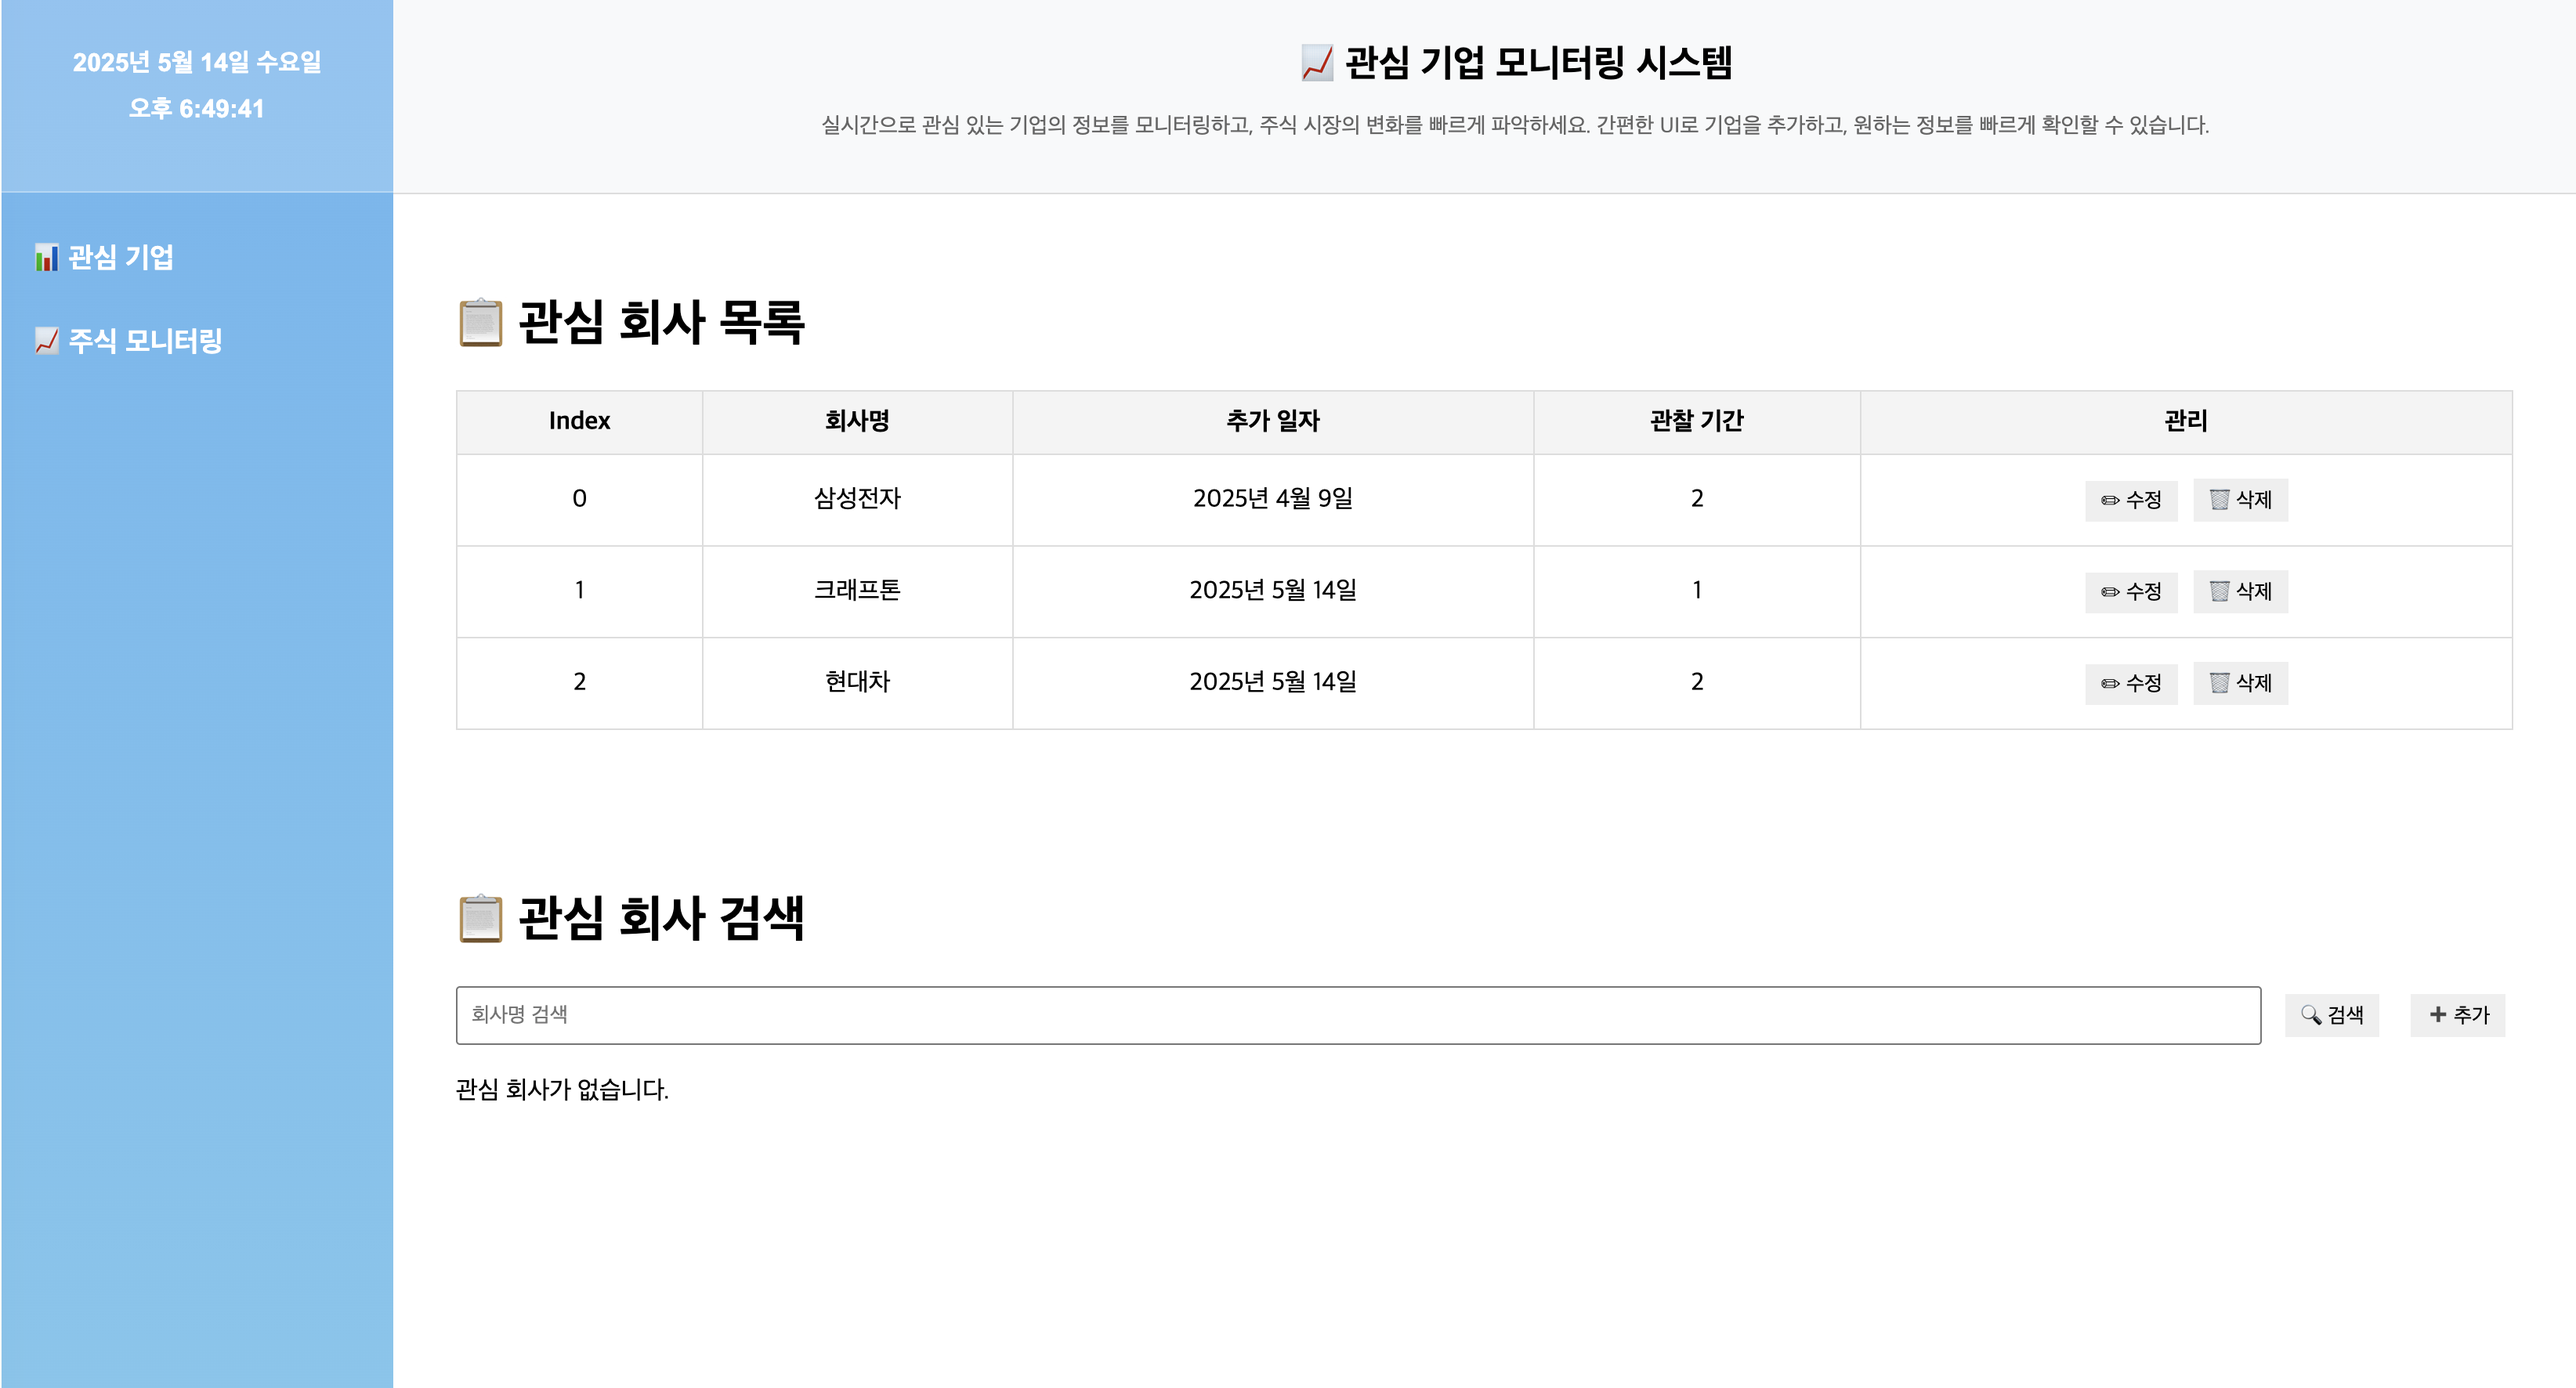
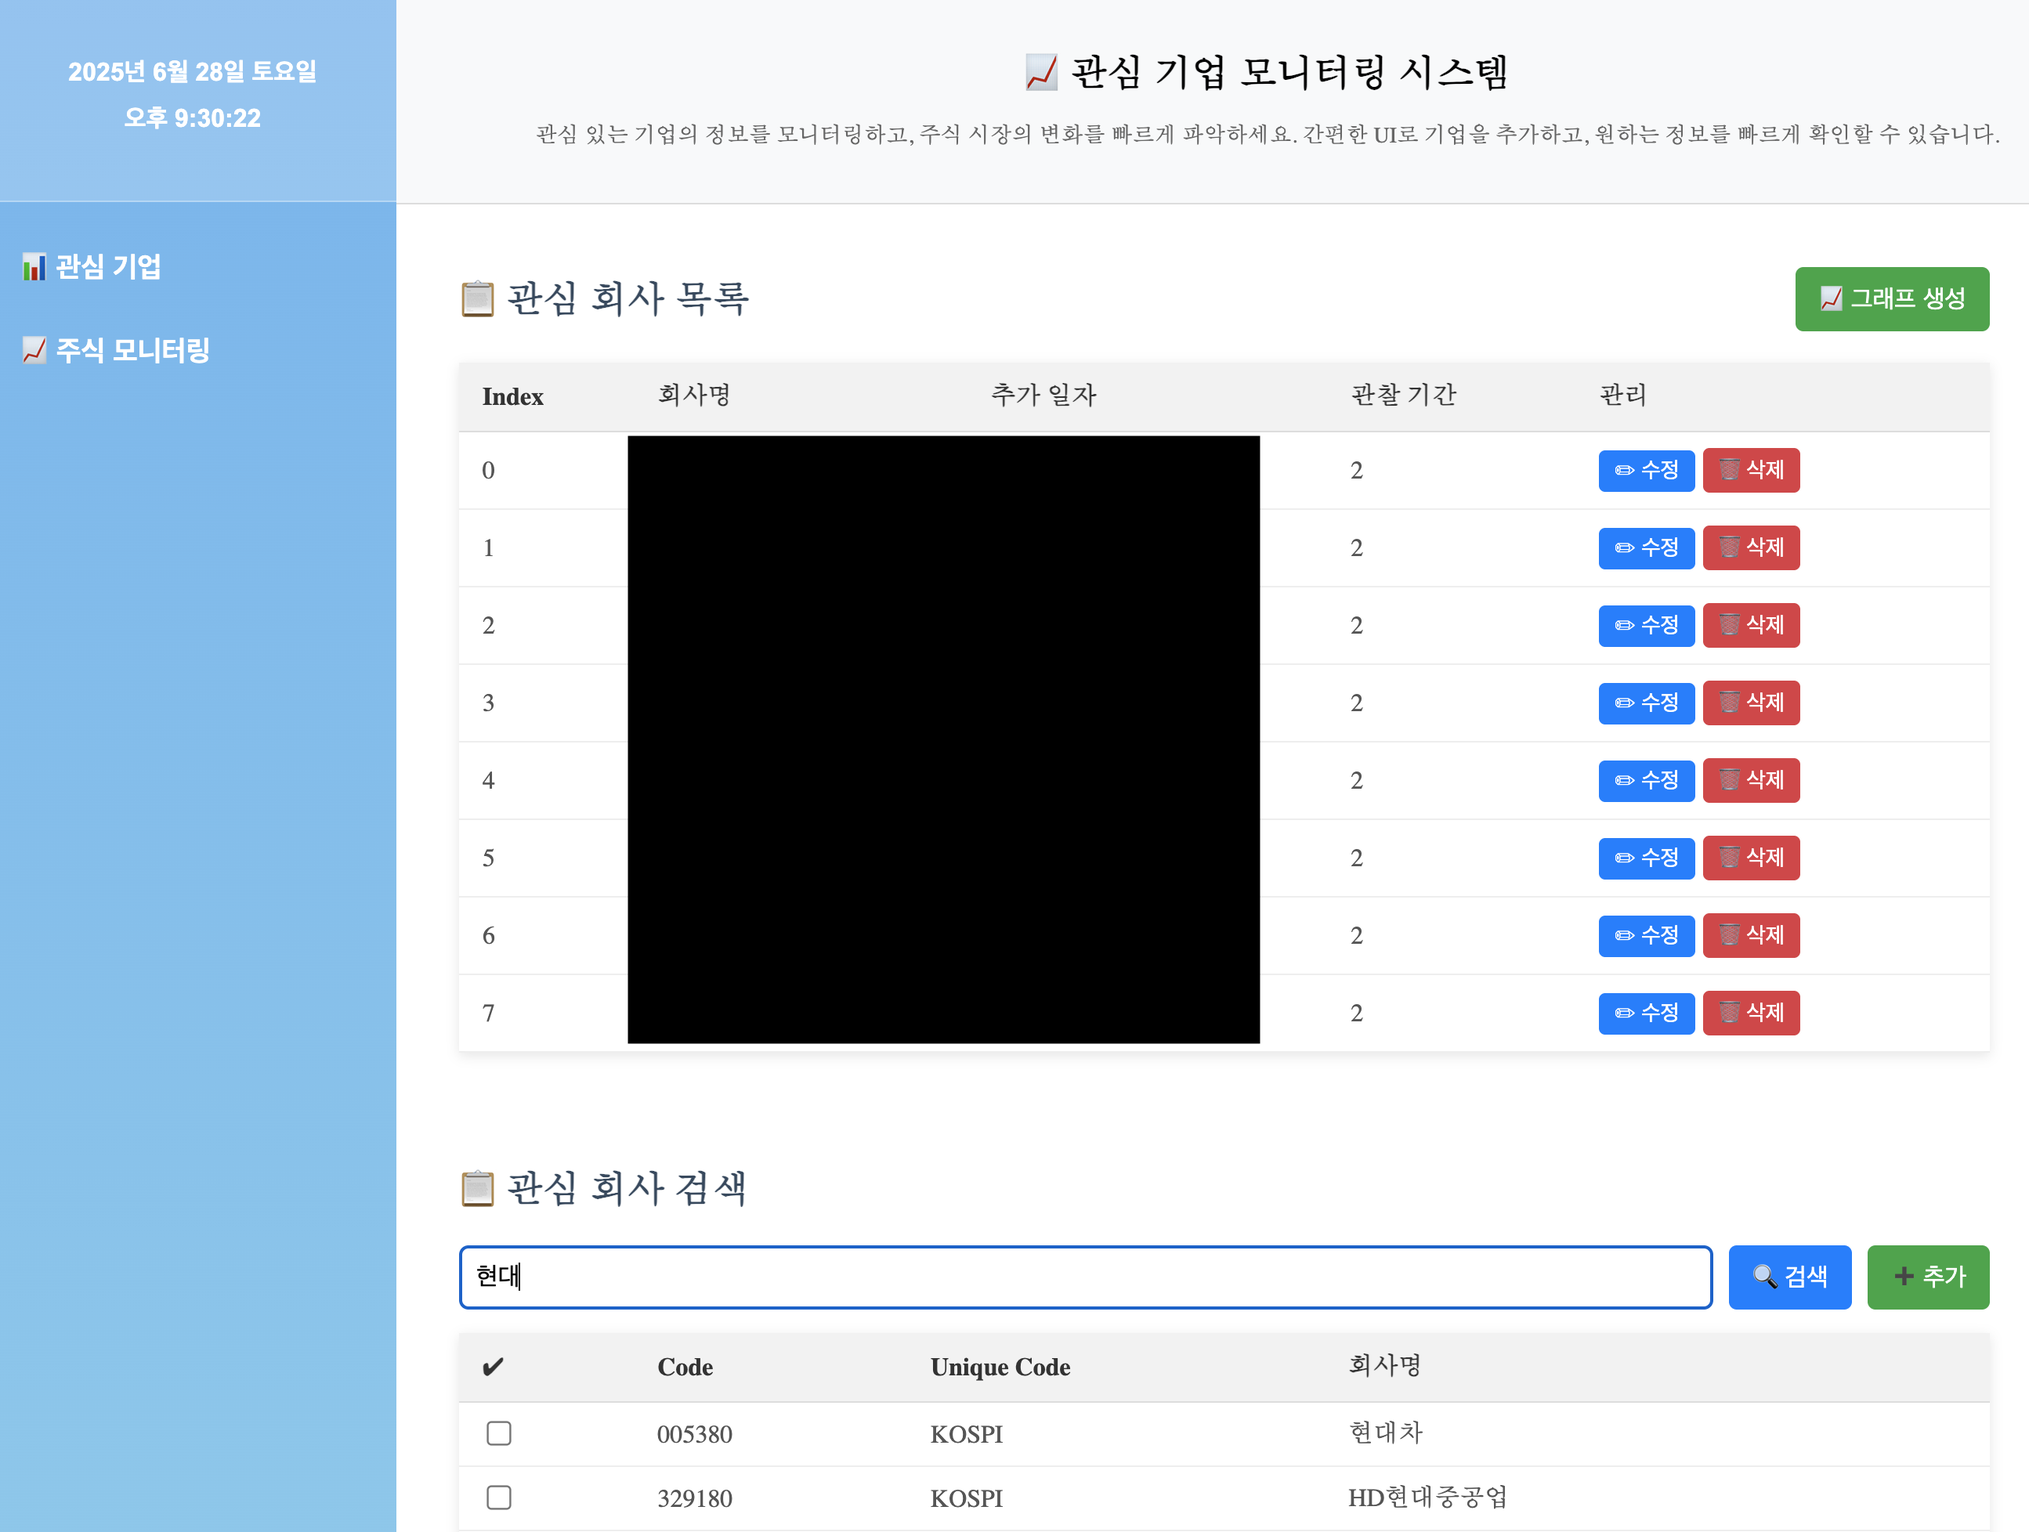
modify readme

diff --git a/frontend/src/views/EditCompanies.vue b/frontend/src/views/EditCompanies.vue
@@ -38,7 +38,7 @@
       </div> <br /><br /><br />
       <h1>📋 관심 회사 검색</h1>
       <div class="search-section">
-        <input v-model="companyName" type="text" placeholder="회사명 검색" />
+        <input v-model="companyName" type="text" @keyup.enter="searchCompany" placeholder="회사명 검색" />
         <button type="" @click="searchCompany">🔍 검색</button>
         <button type="" @click="addCompany">➕ 추가</button>
       </div>
@@ -114,7 +114,6 @@ export default {
   },
   methods: {
     async searchCompany() {
-        console.log("sibal");
       try {
         const access_token = localStorage.getItem("access_token");
         const res = await axios.post(
